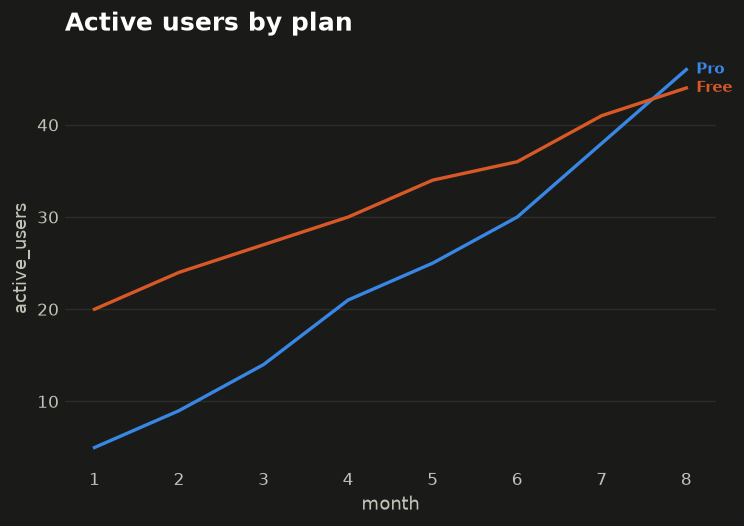
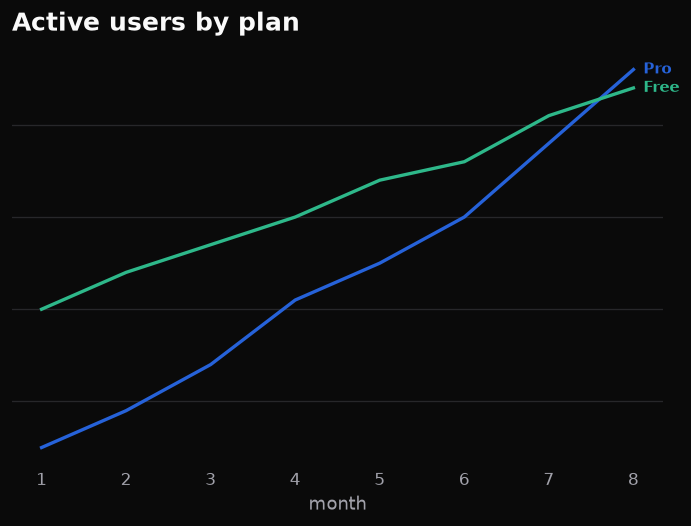
Redo shadcn theme to actually read as shadcn
First pass kept vizlib's blue palette and the y-axis, so it didn't look
like shadcn. This revision adopts the real shadcn identity:

- shadcn's own chart palette (light: coral/teal/slate/gold/orange;
  dark: blue/green/orange/violet/pink), extended to the fixed 8, plus
  shadcn zinc neutrals and pure-white / near-black card surfaces.
- Hide the value axis: new Theme knob value_axis (default True);
  shadcn sets False. core.style_axes drops the value-axis tick labels
  (faint grid carries it); bar/line/hist also drop the value-axis label.
- Font -> Liberation Sans (Arial-metric; Inter/Geist aren't installed),
  much closer to shadcn than DejaVu.
- Keeps the prior chrome: rounded bar ends, no spines, horizontal grid.

Update theme tests (shadcn now carries its own palette + value_axis) and
add a hidden-y-axis check; regenerate the shadcn example images; refresh
README/CLAUDE/mvp/examples docs. 285 tests pass.

Claude-Session: https://claude.ai/code/session_01SHA1ht7BUdjWvcxKPRCqGK

diff --git a/src/vizlib/palettes.py b/src/vizlib/palettes.py
@@ -163,3 +163,56 @@ MUTED["lime-dark"] = "#64748b"
 GRIDLINE["lime-dark"] = "#1e293b"
 BASELINE["lime-dark"] = "#334155"
 FONT_FAMILY["lime-dark"] = ("Inter", "system-ui", "sans-serif")
+
+# --- "shadcn" theme: shadcn's chart palette + zinc neutrals -------------------
+# Uses shadcn's actual --chart-1..5 colors (light: coral/teal/slate/gold/orange;
+# dark: blue/green/orange/violet/pink), extended to the fixed 8. Not CVD-validated
+# (documented, like lime). Paired with shadcn chrome via the theme's style knobs
+# (rounded bars, no spines, hidden value axis) and an Arial-metric sans.
+_SHADCN_FONT = ("Liberation Sans", "Arial", "DejaVu Sans", "sans-serif")
+
+# Light
+CATEGORICAL["shadcn"] = (
+    "#e76e50",  # 1 coral   (chart-1)
+    "#2a9d8f",  # 2 teal    (chart-2)
+    "#274754",  # 3 slate   (chart-3)
+    "#e8c468",  # 4 gold    (chart-4)
+    "#f4a261",  # 5 orange  (chart-5)
+    "#5b8ff9",  # 6 blue
+    "#9270ca",  # 7 violet
+    "#e23670",  # 8 pink
+)
+SEQUENTIAL["shadcn"] = SEQUENTIAL["light"]
+DIVERGING["shadcn"] = ("#e76e50", "#f1f0ea", "#2a9d8f")
+EMPHASIS["shadcn"] = "#e76e50"
+DEEMPHASIS["shadcn"] = "#a1a1aa"
+SURFACE["shadcn"] = "#ffffff"
+PRIMARY_INK["shadcn"] = "#0a0a0a"
+SECONDARY_INK["shadcn"] = "#71717a"
+MUTED["shadcn"] = "#a1a1aa"
+GRIDLINE["shadcn"] = "#e4e4e7"
+BASELINE["shadcn"] = "#e4e4e7"
+FONT_FAMILY["shadcn"] = _SHADCN_FONT
+
+# Dark
+CATEGORICAL["shadcn-dark"] = (
+    "#2662d9",  # 1 blue    (chart-1)
+    "#2eb88a",  # 2 green   (chart-2)
+    "#e88c30",  # 3 orange  (chart-3)
+    "#af57db",  # 4 violet  (chart-4)
+    "#e23670",  # 5 pink    (chart-5)
+    "#2a9d8f",  # 6 teal
+    "#e8c468",  # 7 gold
+    "#94a3b8",  # 8 slate
+)
+SEQUENTIAL["shadcn-dark"] = SEQUENTIAL["dark"]
+DIVERGING["shadcn-dark"] = ("#e23670", "#27272a", "#2eb88a")
+EMPHASIS["shadcn-dark"] = "#2662d9"
+DEEMPHASIS["shadcn-dark"] = "#52525b"
+SURFACE["shadcn-dark"] = "#0a0a0a"
+PRIMARY_INK["shadcn-dark"] = "#fafafa"
+SECONDARY_INK["shadcn-dark"] = "#a1a1aa"
+MUTED["shadcn-dark"] = "#71717a"
+GRIDLINE["shadcn-dark"] = "#27272a"
+BASELINE["shadcn-dark"] = "#27272a"
+FONT_FAMILY["shadcn-dark"] = _SHADCN_FONT

diff --git a/src/vizlib/themes.py b/src/vizlib/themes.py
@@ -62,6 +62,7 @@ class Theme:
     # Chrome/shape style knobs (defaults preserve the classic look).
     axis_lines: bool = True  # draw the left/bottom hairline spines
     bar_radius: float = 0.0  # fraction of bar thickness to round the data-end corners
+    value_axis: bool = True  # show the value-axis ticks/labels (shadcn hides them)
 
     @classmethod
     def from_mode(cls, mode: str) -> "Theme":
@@ -88,10 +89,21 @@ DARK = Theme.from_mode("dark")
 # "Lime Green" — a custom theme ported from a shadcn theme (lime primary).
 LIME = Theme.from_mode("lime")
 LIME_DARK = Theme.from_mode("lime-dark")
-# shadcn chart aesthetic: the validated palette + shadcn chrome — rounded bar ends
-# and no axis spines (faint horizontal grid, muted labels carry the rest).
-SHADCN = replace(LIGHT, name="shadcn", axis_lines=False, bar_radius=0.22)
-SHADCN_DARK = replace(DARK, name="shadcn-dark", axis_lines=False, bar_radius=0.22)
+# shadcn chart aesthetic: shadcn's own chart palette + zinc neutrals + Arial-metric
+# sans, with shadcn chrome — rounded bar ends, no axis spines, and a hidden value
+# axis (a faint horizontal grid carries it).
+SHADCN = replace(
+    Theme.from_mode("shadcn"),
+    axis_lines=False,
+    bar_radius=0.18,
+    value_axis=False,
+)
+SHADCN_DARK = replace(
+    Theme.from_mode("shadcn-dark"),
+    axis_lines=False,
+    bar_radius=0.18,
+    value_axis=False,
+)
 
 _BUILTIN: dict[str, Theme] = {
     "light": LIGHT,

diff --git a/src/vizlib/core.py b/src/vizlib/core.py
@@ -24,12 +24,20 @@ def new_axes(theme: Theme, ax: Axes | None) -> Axes:
     return ax
 
 
-def style_axes(ax: Axes, theme: Theme, *, grid_axis: str | None = "y") -> None:
+def style_axes(
+    ax: Axes,
+    theme: Theme,
+    *,
+    grid_axis: str | None = "y",
+    value_axis: str | None = None,
+) -> None:
     """Apply recessive chrome to ``ax``: surface, spines, ticks, and hairline grid.
 
     ``grid_axis`` is "y" (default), "x", "both", or ``None`` for no grid. Gridlines
     are solid hairlines one shade off the surface; the top/right spines are removed
-    and the remaining spines are hairlines in the baseline token.
+    and the remaining spines are hairlines in the baseline token (hidden entirely when
+    ``theme.axis_lines`` is False). ``value_axis`` ("y"/"x") names the value axis; when
+    ``theme.value_axis`` is False its tick labels are dropped (the grid carries it).
     """
     ax.set_facecolor(theme.surface)
 
@@ -49,6 +57,12 @@ def style_axes(ax: Axes, theme: Theme, *, grid_axis: str | None = "y") -> None:
         labelsize=theme.type_scale["tick"],
         length=0,
     )
+
+    if value_axis and not theme.value_axis:
+        if value_axis == "y":
+            ax.tick_params(axis="y", labelleft=False, left=False)
+        elif value_axis == "x":
+            ax.tick_params(axis="x", labelbottom=False, bottom=False)
 
     if grid_axis:
         ax.grid(

diff --git a/tests/test_themes.py b/tests/test_themes.py
@@ -49,23 +49,25 @@ def test_theme_is_immutable():
         viz.LIGHT.surface = "#000000"
 
 
-def test_shadcn_themes_resolve_and_carry_validated_palette():
+def test_shadcn_themes_resolve_with_shadcn_palette():
     from vizlib.themes import resolve_theme
 
     assert resolve_theme("shadcn") is viz.SHADCN
     assert resolve_theme("shadcn-dark") is viz.SHADCN_DARK
-    # Same validated palette as light/dark — only the chrome/shape changes.
-    assert viz.SHADCN.categorical == viz.LIGHT.categorical
-    assert viz.SHADCN_DARK.categorical == viz.DARK.categorical
+    # shadcn uses its own chart palette (coral lead in light), not the blue default.
+    assert viz.SHADCN.categorical[0] == "#e76e50"
+    assert viz.SHADCN.categorical != viz.LIGHT.categorical
 
 
 def test_shadcn_style_knobs():
     for th in (viz.SHADCN, viz.SHADCN_DARK):
         assert th.axis_lines is False
         assert th.bar_radius > 0
-    # Classic themes keep the default chrome.
+        assert th.value_axis is False
+    # Classic themes keep the default chrome and value axis.
     assert viz.LIGHT.axis_lines is True
     assert viz.LIGHT.bar_radius == 0.0
+    assert viz.LIGHT.value_axis is True
 
 
 def test_theme_type_scale_is_hierarchical():

diff --git a/src/vizlib/charts/line.py b/src/vizlib/charts/line.py
@@ -110,7 +110,7 @@ def line(
         drawn.append((ln, values))
 
     # 5. Post-style.
-    core.style_axes(ax, th, grid_axis="y")
+    core.style_axes(ax, th, grid_axis="y", value_axis="y")
     if not x_is_ordinal:
         ax.set_xticks(positions, [str(c) for c in matrix.index])
 
@@ -132,6 +132,9 @@ def line(
     if multi and not emphasis_mode and not direct_named:
         core.add_legend(ax, th)
 
+    final_ylabel = ylabel if ylabel is not None else (y if y is not None else "count")
+    if not th.value_axis:
+        final_ylabel = None  # hidden value axis -> no value label
     core.finalize(
         ax,
         th,
@@ -139,7 +142,7 @@ def line(
         subtitle=subtitle,
         caption=caption,
         xlabel=xlabel if xlabel is not None else x,
-        ylabel=ylabel if ylabel is not None else (y if y is not None else "count"),
+        ylabel=final_ylabel,
     )
     return ax
 

diff --git a/src/vizlib/charts/bar.py b/src/vizlib/charts/bar.py
@@ -189,7 +189,7 @@ def bar(
 
     # 4. Post-style.
     grid_axis = "x" if horizontal else "y"
-    core.style_axes(ax, th, grid_axis=grid_axis)
+    core.style_axes(ax, th, grid_axis=grid_axis, value_axis=grid_axis)
     if horizontal:
         ax.set_yticks(positions, categories)
         ax.invert_yaxis()  # first category at the top
@@ -221,6 +221,12 @@ def bar(
     else:
         xlabel = xlabel if xlabel is not None else default_cat_label
         ylabel = ylabel if ylabel is not None else default_val_label
+    # A hidden value axis drops its label too (no ticks to anchor it).
+    if not th.value_axis:
+        if horizontal:
+            xlabel = None
+        else:
+            ylabel = None
     core.finalize(
         ax,
         th,

diff --git a/src/vizlib/charts/hist.py b/src/vizlib/charts/hist.py
@@ -102,9 +102,12 @@ def hist(
         containers.append(patches)
 
     # 5. Post-style.
-    core.style_axes(ax, th, grid_axis="y")
+    core.style_axes(ax, th, grid_axis="y", value_axis="y")
     if multi and not emphasis_mode:
         core.add_legend(ax, th)
+    final_ylabel = ylabel if ylabel is not None else "count"
+    if not th.value_axis:
+        final_ylabel = None  # hidden value axis -> no value label
     core.finalize(
         ax,
         th,
@@ -112,7 +115,7 @@ def hist(
         subtitle=subtitle,
         caption=caption,
         xlabel=xlabel if xlabel is not None else x,
-        ylabel=ylabel if ylabel is not None else "count",
+        ylabel=final_ylabel,
     )
 
     # Rounded bar ends (shadcn-style themes).

diff --git a/tests/test_bar.py b/tests/test_bar.py
@@ -193,6 +193,8 @@ def test_shadcn_theme_rounds_bars_and_hides_spines(sales):
     assert all(isinstance(p, PathPatch) for p in ax.patches)
     assert ax.spines["left"].get_visible() is False
     assert ax.spines["bottom"].get_visible() is False
+    # Value (y) axis is hidden: no y tick labels.
+    assert all(t.get_text() == "" for t in ax.get_yticklabels())
 
 
 def test_default_theme_keeps_square_bars(sales):

diff --git a/README.md b/README.md
@@ -130,26 +130,27 @@ with viz.theme("dark"):     # scoped override
     viz.bar(sales, x="region", y="revenue")
 ```
 
-Six themes are built in — **light**, **dark**, the custom **lime** / **lime-dark**,
-and **shadcn** / **shadcn-dark** — each with a validated categorical, sequential, and
-diverging palette plus recessive chrome tokens and a deliberate type scale. See
-[`mvp.md`](./mvp.md#5-theming-system) for the palette values.
+Six themes are built in — **light**, **dark** (vizlib's validated colorblind-safe
+palette), the custom **lime** / **lime-dark**, and **shadcn** / **shadcn-dark** — each
+with a categorical, sequential, and diverging palette plus recessive chrome tokens
+and a deliberate type scale. See [`mvp.md`](./mvp.md#5-theming-system) for values.
 
-The **lime** / **lime-dark** theme ("Lime Green", ported from a shadcn theme) puts a
-lime primary/accent over light and dark surfaces. The **shadcn** / **shadcn-dark**
-theme mimics the shadcn charts aesthetic — **rounded bar ends and no axis spines**,
-over vizlib's validated palette:
+The **shadcn** / **shadcn-dark** theme mimics the shadcn charts look — shadcn's own
+chart palette (coral/teal/slate/… light, blue/green/… dark), **rounded bar ends, no
+axis spines, and a hidden value axis** (a faint horizontal grid carries it), in an
+Arial-metric sans. The **lime** / **lime-dark** theme puts a lime accent over light
+and dark surfaces. (Both custom palettes are not colorblind-validated.)
 
 ```python
-viz.bar(sales, x="region", y="revenue", theme="lime")          # lime accent
 viz.bar(sales, x="region", y="revenue", theme="shadcn")        # rounded, borderless
 with viz.theme("shadcn-dark"):
     viz.line(usage, x="month", y="users", by="plan")
 ```
 
-A `Theme` also exposes two chrome/shape knobs — `axis_lines` (draw the left/bottom
-spines) and `bar_radius` (round bar ends) — so you can build your own look with
-`dataclasses.replace(viz.LIGHT, ...)`, or pass `palette=` to any chart.
+A `Theme` also exposes three chrome/shape knobs — `axis_lines` (draw the left/bottom
+spines), `bar_radius` (round bar ends), and `value_axis` (show the value-axis ticks)
+— so you can build your own look with `dataclasses.replace(viz.LIGHT, ...)`, or pass
+`palette=` to any chart.
 
 ---
 

diff --git a/examples/README.md b/examples/README.md
@@ -66,7 +66,7 @@ interactively instead, replace the `savefig(...)` call with `plt.show()`.
 | [`distributions.py`](./distributions.py) | hist | A single distribution, overlaid groups on shared bins, emphasis via `highlight=` |
 | [`theming.py`](./theming.py) | any | The dark theme, the `theme()` context manager, and a custom `Theme` |
 | [`theme_lime.py`](./theme_lime.py) | any | The built-in "Lime Green" theme (`lime` / `lime-dark`) |
-| [`theme_shadcn.py`](./theme_shadcn.py) | any | The shadcn aesthetic (`shadcn` / `shadcn-dark`) — rounded bars, no spines |
+| [`theme_shadcn.py`](./theme_shadcn.py) | any | The shadcn aesthetic (`shadcn` / `shadcn-dark`) — shadcn palette, rounded bars, no spines/y-axis |
 | [`black_and_white.py`](./black_and_white.py) | bar, line | `texture=` secondary encoding, shown in color and desaturated to grayscale |
 
 ## Gallery
@@ -151,9 +151,9 @@ distinct set. Light (`lime`) and dark (`lime-dark`) variants.
 ![lime dark scatter](./images/lime_dark_scatter.png)
 
 ### `theme_shadcn.py`
-The **shadcn** / **shadcn-dark** theme mimics the shadcn charts look — rounded bar
-ends, no axis spines, a faint horizontal-only grid, muted labels — over vizlib's
-validated palette (only the chrome/shape changes).
+The **shadcn** / **shadcn-dark** theme mimics the shadcn charts look — shadcn's own
+chart palette (coral/teal light, blue/green dark), rounded bar ends, no axis spines,
+a hidden value axis with a faint horizontal grid, and small muted labels.
 
 ![shadcn bar](./images/shadcn_bar.png)
 ![shadcn grouped](./images/shadcn_grouped.png)

diff --git a/CLAUDE.md b/CLAUDE.md
@@ -64,11 +64,13 @@ the same five-step pipeline, and new chart types must too:
   the 8-hue categorical order, sequential/diverging ramps, and chrome/ink tokens.
 - `themes.py` — the immutable `Theme` dataclass assembled from `palettes`; the
   built-in themes `LIGHT`/`DARK`, `LIME`/`LIME_DARK`, and `SHADCN`/`SHADCN_DARK`
-  (shadcn look = validated palette + chrome knobs `axis_lines=False`,
-  `bar_radius>0`, built via `dataclasses.replace`); global theme state
-  (`set_theme`/`get_theme`/`theme` context manager) and `apply_theme` (rcParams).
-  `Theme` carries chrome/shape knobs — `axis_lines` (left/bottom spines) and
-  `bar_radius` (rounded bar ends) — that `core.style_axes`/`core.round_bars` honor.
+  (shadcn look = shadcn's own chart palette + chrome knobs `axis_lines=False`,
+  `bar_radius>0`, `value_axis=False`, on `from_mode("shadcn")` via
+  `dataclasses.replace`); global theme state (`set_theme`/`get_theme`/`theme`
+  context manager) and `apply_theme` (rcParams). `Theme` carries chrome/shape knobs
+  — `axis_lines` (left/bottom spines), `bar_radius` (rounded bar ends), and
+  `value_axis` (show value-axis ticks) — that `core.style_axes`/`core.round_bars`
+  honor.
 - `core.py` — theme-agnostic post-styling helpers shared by all charts.
 - `charts/_common.py` — data-shaping and color logic shared across charts:
   `aggregate_matrix`/`fold_matrix` (bar, line), `split_groups`/`fold_groups`

diff --git a/mvp.md b/mvp.md
@@ -187,11 +187,11 @@ with viz.theme("dark"):           # scoped override
 ```
 
 A `Theme` is a small dataclass bundling palettes + chrome + typography + shape knobs
-(`axis_lines`, `bar_radius`). Applying a theme sets matplotlib `rcParams` and is what
-each chart function reads before drawing. Six themes are built in: **light**,
-**dark**, **lime** / **lime-dark** (Lime Green), and **shadcn** / **shadcn-dark**
-(rounded bar ends, no axis spines — the shadcn charts aesthetic over the validated
-palette).
+(`axis_lines`, `bar_radius`, `value_axis`). Applying a theme sets matplotlib
+`rcParams` and is what each chart function reads before drawing. Six themes are built
+in: **light**, **dark**, **lime** / **lime-dark** (Lime Green), and **shadcn** /
+**shadcn-dark** (the shadcn charts aesthetic — shadcn's own chart palette, rounded bar
+ends, no axis spines, a hidden value axis, and an Arial-metric sans).
 
 ### 5.2 Palettes (validated default)
 
